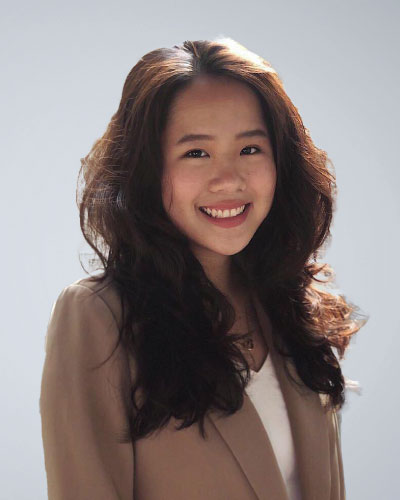
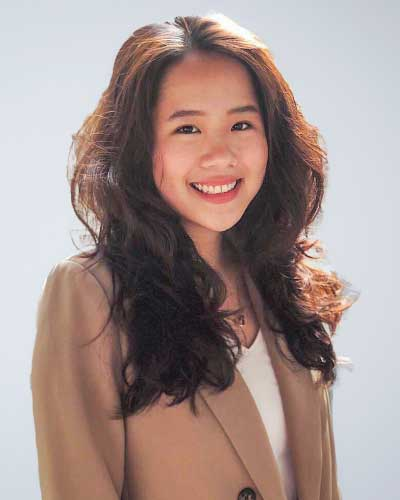
update
update

diff --git a/css/style.css b/css/style.css
@@ -2951,7 +2951,7 @@ a:focus, a:hover {
   background-position: top center;
 }
 .card-5 {
-  background-image: url(../images/team/Ahn01.png);
+  background-image: url(../images/team/Ahn02.png);
   background-position: top center;
 }
 .card-6 {
